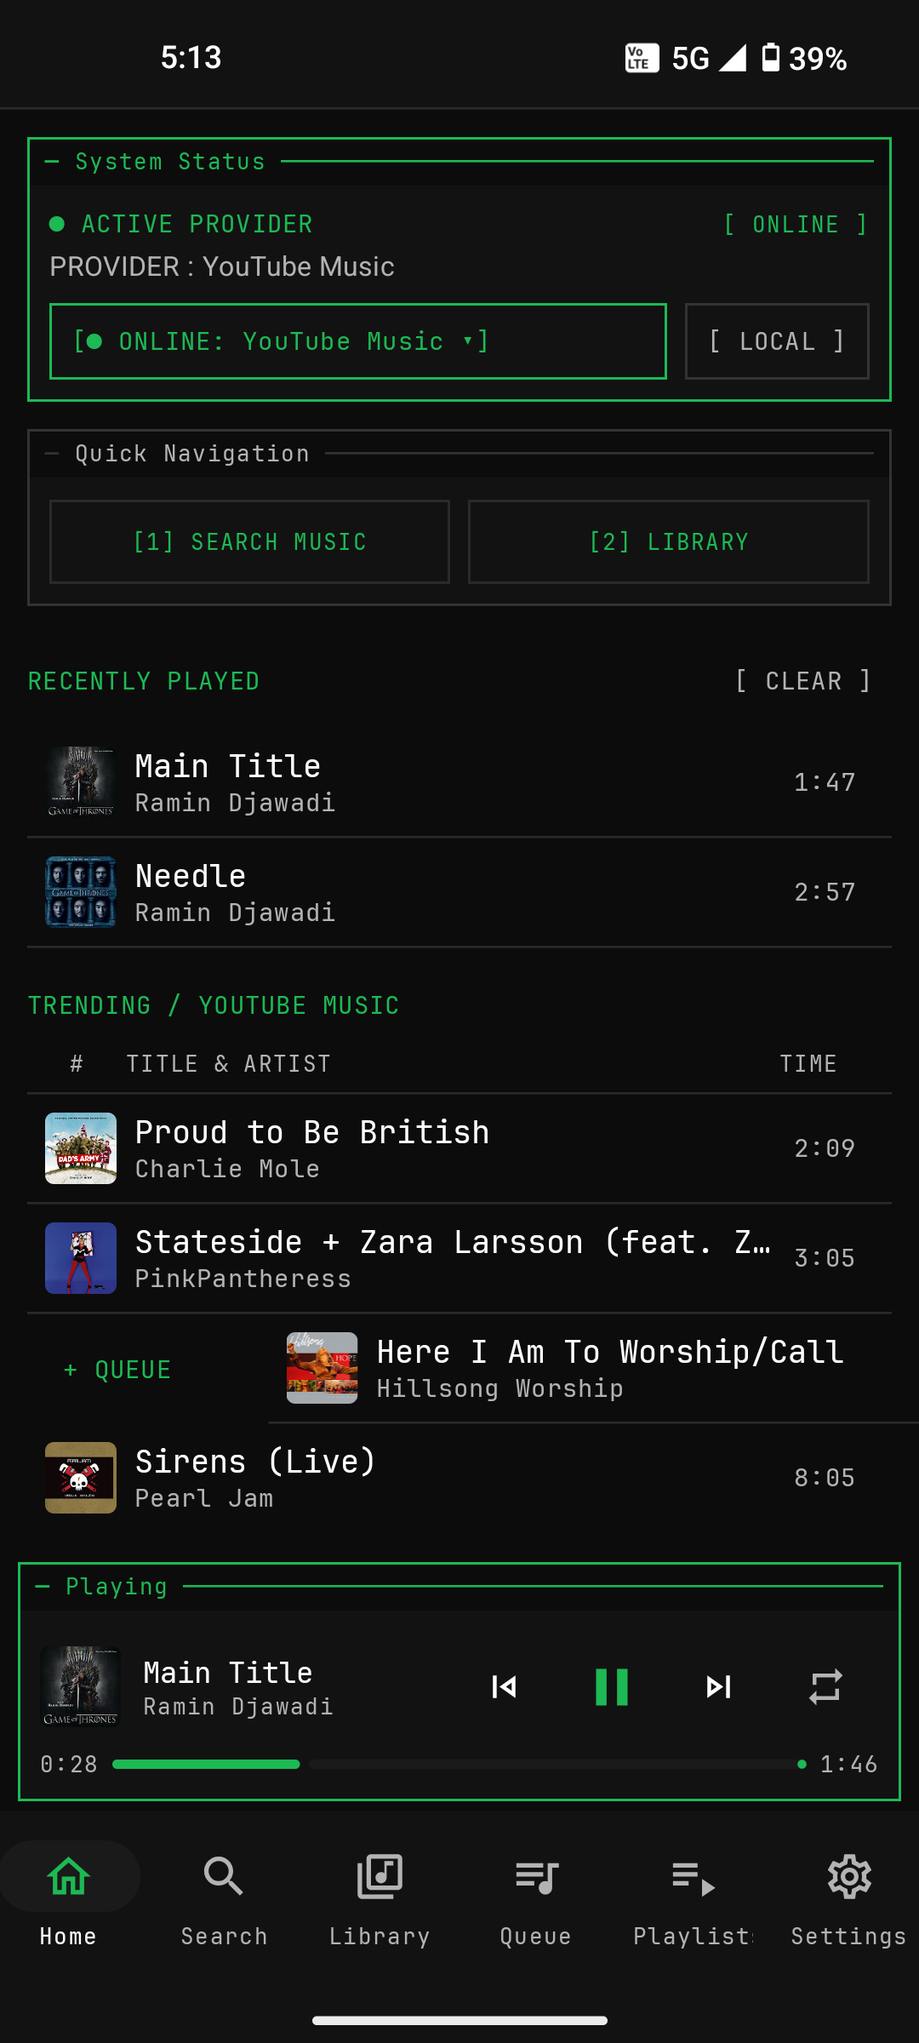
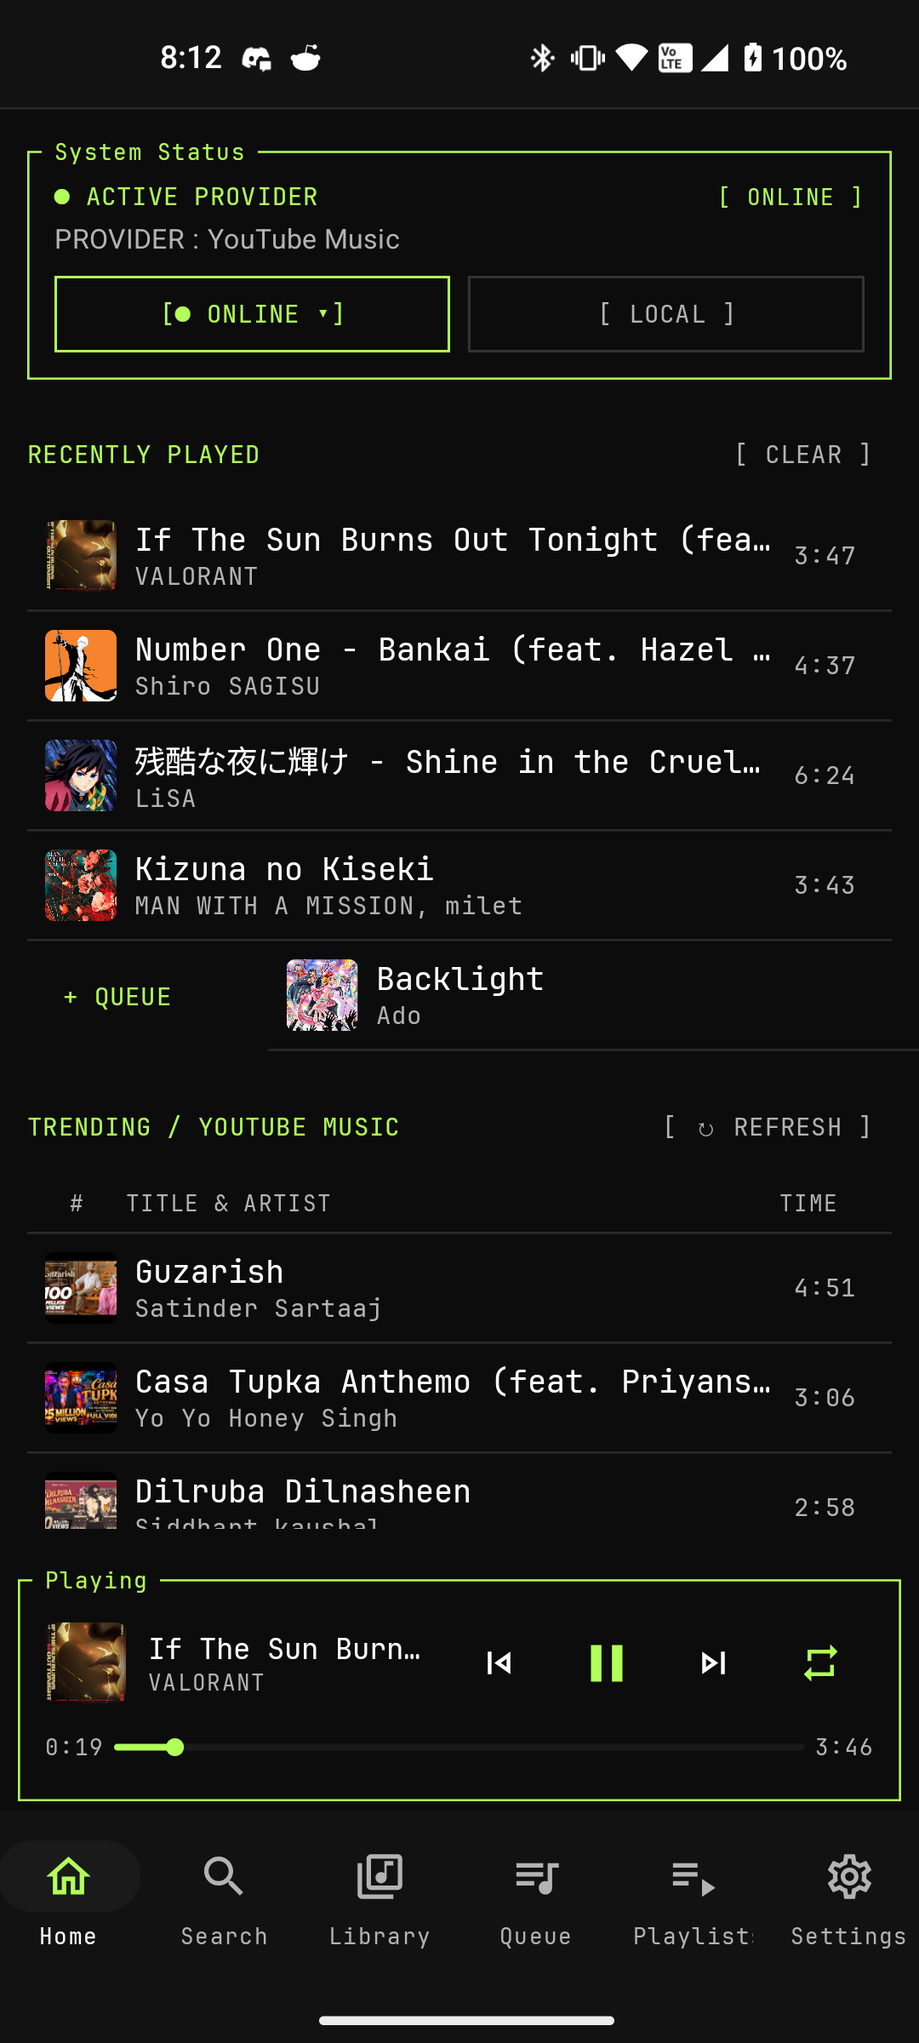
docs: v2.4.0 release notes, README, user guide and new screenshots

diff --git a/README.md b/README.md
@@ -7,7 +7,7 @@
 **A free, open-source Android music player with a terminal-inspired interface.**<br>
 Stream online or play your own lossless library — no ads, no accounts, no tracking.
 
-[![Version](https://img.shields.io/badge/version-2.3.0-1DB954)](#)
+[![Version](https://img.shields.io/badge/version-2.4.0-1DB954)](#)
 [![Downloads](https://img.shields.io/endpoint?url=https%3A%2F%2Fraw.githubusercontent.com%2FOmprakash-p06%2Fclibeats%2Fstats%2Fdownloads-badge.json)](#downloads)
 [![Android](https://img.shields.io/badge/Android-8.0%2B-3DDC84?logo=android&logoColor=white)](https://developer.android.com/)
 [![Kotlin](https://img.shields.io/badge/Kotlin-2.x-7F52FF?logo=kotlin&logoColor=white)](https://kotlinlang.org/)
@@ -40,7 +40,17 @@ Stream online or play your own lossless library — no ads, no accounts, no trac
 
 ## Screenshots
 
-New screenshots of the other screens are on the way. The current Now Playing screen is shown at the top.
+**Home & Search** — swipe a song right to queue it or left to favourite it; recent searches when the box is empty.
+
+<img src="docs/screenshots/strip_home_search.png" width="100%" alt="Home swipe gestures and search">
+
+**Library & Playlists** — songs you've played online; playlists with Favorites and Most Played pinned on top.
+
+<img src="docs/screenshots/strip_library_playlists.png" width="66%" alt="Library and playlists">
+
+**Settings** — theme, accent colours (with a custom picker), music folders, caches, backup and updates.
+
+<img src="docs/screenshots/strip_settings.png" width="66%" alt="Settings: theme, accent, storage and updates">
 
 ---
 
@@ -49,11 +59,16 @@ New screenshots of the other screens are on the way. The current Now Playing scr
 ### Playback
 - **Queue playback that just works** — every queued song resolves when it's reached (skip, auto-advance, repeat).
 - **Fast start** — playback begins after ~0.5 s of buffer; next 2 songs are pre-resolved and their covers prefetched.
-- **Repeat** (off → all → one) and **shuffle**, with a tiny `ONE` / `ALL` / `OFF` label above the button.
+- **Repeat** (off → all → one), with a tiny `ONE` / `ALL` / `OFF` label above the button.
+- **Shuffle reorders the queue itself:** the playing song moves to the top and the rest is mixed, so the Queue screen,
+  next and previous all follow what you see; turning it off restores the original order. A list started while shuffle
+  is on plays shuffled.
 - **Sleep timer** — 15 / 30 / 45 / 60 min or end of track (also with repeat-one).
 - **Auto-queue related songs** (optional, off by default) — tapping a song queues the rest of that list after it.
 - **Previous** restarts the song when it's more than 3 s in; press again for the song that played before — local or
-  online, from any queue — in the app, notification, lock screen and headphones.
+  online, from any queue.
+- **Next** after going back returns to the songs you went back from, in order, at any point in a song; otherwise it
+  follows the queue. Previous and next work the same in the app, notification, lock screen and headphones.
 - **Clear upcoming** keeps the song that's playing.
 - Expired YouTube links are refreshed automatically; one silent retry on stream errors.
 - **A song that can't be played is skipped** with a short notice above the player bar, so the queue never stalls.
@@ -62,7 +77,8 @@ New screenshots of the other screens are on the way. The current Now Playing scr
 - **Online:** YouTube Music, Internet Archive, Jamendo, Audius — pick from the `ONLINE ▾` drop-down.
 - **Local:** your own files — **FLAC (16/24-bit), WAV, MP3, M4A (AAC / ALAC), AAC, OGG Vorbis, Opus** (each checked
   with a real sample file in the tests; ALAC also needs the phone's decoder). AIFF isn't supported.
-- **Regional results** — YouTube Music uses your device's country and language; trending shows your country's top songs.
+- **Trending by country** — Home shows YouTube Music's own chart for the country your SIM / mobile network is in
+  (e.g. *Daily Top Music Videos – India*). It loads once per app open; `[ ↻ REFRESH ]` reloads it.
 - **Data saver** — turn off *High quality streaming* (Settings → Audio Quality) to stream the lowest-bitrate audio.
 
 ### Local library
@@ -73,12 +89,15 @@ New screenshots of the other screens are on the way. The current Now Playing scr
 
 ### Library, playlists & favourites
 - **Library:** `[ ONLINE ]` shows only songs you've played (with its own `[ CLEAR ]`); `[ OFFLINE ]` shows your device music and its track count. Tracks / Artists / Albums.
-- **Playlists grid:** ♥ Favorites, Most Played (each with ✕ per song and a confirmed `[ CLEAR ALL ]`), your playlists (most recent first), a **+** tile, then local playlists.
+- **Playlists:** ♥ Favorites and Most Played pinned on top (each with ✕ per song and a confirmed `[ CLEAR ALL ]`),
+  then your playlists (`[ + NEW ]`), then local playlists in their own section. Four views — small grid, large grid,
+  list and details — remembered between launches.
 - **Custom covers:** tap a playlist's cover to pick an image from your phone or paste an image URL; reset any time.
 - **Favourites:** heart in Now Playing, or swipe left on any song.
 - **Recently Played** on Home (last 5), with its own `[ CLEAR ]` that doesn't touch the Library.
-- **Recent searches:** with the search box empty, Search lists the songs you played from earlier searches.
-- **Reorder** ♥ Favorites and your own playlists by dragging a song's ≡ handle.
+- **Recent searches:** with the search box empty, Search lists the songs you played, queued, favourited or added to
+  a playlist from earlier searches.
+- **Reorder** the queue, ♥ Favorites and your own playlists: drag a song's ≡ handle, or hold its cover and drag.
 - **Playlist export / import** (`clibeats.json`, any location via the system picker) — includes Favorites.
 - **Library backup:** saved automatically once a day (playlists, Favorites, saved albums and artists, settings), also to
   `Download/CLIBeats` on Android 10+ so it survives an uninstall. Setup offers to restore it; **SHARE BACKUP** in
@@ -93,6 +112,8 @@ New screenshots of the other screens are on the way. The current Now Playing scr
 - **Waveform seek:** drag across the bars behind the controls to scrub. Playback keeps going, its position stays marked,
   and dragging back near it snaps onto it (letting go there doesn't seek).
 - The quality line stays readable on any cover: a lighter shade of the album colour, or light amber (never red).
+- **Audio output:** shows where the music is playing — phone speaker, wired headphones or your Bluetooth device by
+  name — and follows changes as they happen. Tap it to open Android's output switcher.
 - Repeat · previous · play/pause · next · shuffle · sleep timer · queue (`[ QUEUE (n) ]`) · add to playlist · ♥.
 
 ### System integration
@@ -101,7 +122,8 @@ New screenshots of the other screens are on the way. The current Now Playing scr
 - Tapping the notification opens the app; the session survives swiping the app away.
 - **Resume card** in Quick Settings after the app is closed (Android 11+): same queue, same song, same position.
 - **In-app updates:** a pop-up when a new release is out (DOWNLOAD / LATER), checksum-verified download to
-  Downloads, then INSTALL. Settings → Updates: auto-check daily / weekly / off and CHECK NOW.
+  Downloads with a progress bar under the top bar (`[VIEW]` / `[×]`), then INSTALL. Settings → Updates: auto-check
+  daily / weekly / off and CHECK NOW.
 
 ### Storage & performance
 - **Two caches, each with its own limit and `[ CLEAR ]`:** artwork (64 MB–512 MB) and songs (256 MB–2 GB);
@@ -111,7 +133,9 @@ New screenshots of the other screens are on the way. The current Now Playing scr
 
 ### Interface
 - Terminal-style UI (JetBrains Mono, bracketed controls, bordered blocks).
-- **Themes:** Dark · AMOLED · **Light**, with six accent colours; dialogs and menus follow the theme.
+- **Themes:** Dark · AMOLED · **Light**, with nine accent colours plus a **custom colour picker** (hue, saturation,
+  brightness or a hex code); dialogs and menus follow the theme.
+- **Mini player seek:** touch or drag the bar; a bubble shows the exact time, and it lands on that second.
 - **First-run setup** (new installs): theme → music folder → default source (Online / Local).
 - **App icon:** round logo (terminal prompt and spectrum bars) that fits round, squircle and square icon shapes, with a themed (monochrome) variant on Android 13+.
 
@@ -131,10 +155,12 @@ New screenshots of the other screens are on the way. The current Now Playing scr
 | Bottom bar · **Library** | Tap again (on Library) | Switch Online ↔ Offline |
 | Bottom bar · **Playlists** | Tap again (inside a playlist) | Back to the playlist grid |
 | Mini player | Tap song / artwork | Open Now Playing |
+| Mini player | Touch / drag the seek bar | Seek, with the exact time shown while held |
 | Now Playing | **Drag down** on the artwork | Close the player |
-| Queue | **Hold** an upcoming song (anywhere) and move it, or drag its ≡ handle | Reorder the queue |
-| ♥ Favorites / your playlists | Drag a song's ≡ handle | Reorder |
+| Queue · ♥ Favorites · your playlists | Drag a song's ≡ handle, or **hold its cover** and drag | Reorder |
 | Previous button | Tap (more than 3 s in) · tap again | Restart the song · play the one before |
+| Next button | Tap after going back | Return to the song you went back from |
+| Now Playing | Tap the audio output (`[ ᛒ EARBUDS ]`) | Open Android's output switcher |
 | Now Playing | **Drag** across the waveform | Scrub; back near the current time snaps to it |
 | Repeat button | Tap repeatedly | Off → All → One |
 | Playlist tile | Long-press | Delete playlist (app playlists only) |
@@ -151,10 +177,10 @@ New screenshots of the other screens are on the way. The current Now Playing scr
 - **Home** — source switch, recently played, trending, mini player.
 - **Search** — search the active source; play next / add to playlist / add to queue on each result.
 - **Library** — Online (played) / Offline (device) · Tracks / Artists / Albums.
-- **Queue** — the playing song, then Up Next to reorder, remove, shuffle or clear; tap to jump. Also opens from the
-  mini player's ≡ and `[ QUEUE ]` in Now Playing.
-- **Playlists** — Favorites, Most Played, app playlists, local M3U playlists; drag ≡ to reorder Favorites and your
-  playlists.
+- **Queue** — the playing song, then Up Next to reorder, remove, shuffle or clear; tap to jump. Also opens from
+  `[ QUEUE ]` in Now Playing.
+- **Playlists** — Favorites and Most Played pinned, your playlists, local M3U playlists; grid / list / details views;
+  drag ≡ (or hold a cover) to reorder Favorites and your playlists.
 - **Settings** — theme & accent, local music folders, playback, provider, storage, playlist exchange & backup, about.
 
 ---
@@ -209,15 +235,15 @@ Screenshot tests: `.\gradlew.bat verifyPaparazziDebug` (needs `ANDROID_HOME` set
 
 Download the latest APK from [Releases](https://github.com/Omprakash-p06/clibeats/releases): each release has
 `CLIBeats-vX.Y.Z.apk` and a `SHA256SUMS.txt` to verify it (`sha256sum -c SHA256SUMS.txt`, or
-`Get-FileHash CLIBeats-v2.3.0.apk` on Windows). From v2.1.0 the app updates itself (Settings → Updates).
+`Get-FileHash CLIBeats-v2.4.0.apk` on Windows). From v2.1.0 the app updates itself (Settings → Updates).
 Every release is signed with the CLIBeats key, certificate SHA-256
[1 lines of base64/hex data omitted]
 
-Pushing a tag like `v2.3.0` runs `.github/workflows/release.yml`: tests, a signed release APK and a GitHub
+Pushing a tag like `v2.4.0` runs `.github/workflows/release.yml`: tests, a signed release APK and a GitHub
 Release with [release notes](docs/RELEASE_NOTES.md). Signing uses the repository secrets `KEYSTORE_BASE64`,
 `KEYSTORE_PASSWORD`, `KEY_ALIAS` and `KEY_PASSWORD`; the workflow stops if they're missing, so a
 debug-signed APK (which couldn't update existing installs) is never published. A release published by hand is
-left untouched. The version comes from the tag (`2.3.0` → versionCode `20300`); local builds default to 2.3.0.
+left untouched. The version comes from the tag (`2.4.0` → versionCode `20400`); local builds default to 2.4.0.
 
 ---
 

diff --git a/docs/RELEASE_NOTES.md b/docs/RELEASE_NOTES.md
@@ -1,38 +1,57 @@
-# CLIBeats v2.3.0 — Release Notes
+# CLIBeats v2.4.0 — Release Notes
 
-**Build target:** Android 8.0+ (API 26+) · **Download:** `CLIBeats-v2.3.0.apk` (verify with `SHA256SUMS.txt`)
+**Build target:** Android 8.0+ (API 26+) · **Download:** `CLIBeats-v2.4.0.apk` (verify with `SHA256SUMS.txt`)
+
+## Playlists
+
+- **New views:** small grid, large grid, list and details. Switch with the buttons at the top; your choice is
+  remembered.
+- **Clear sections:** ♥ Favorites and Most Played are pinned at the top, then your playlists (with `[ + NEW ]`),
+  then local M3U/PLS playlists in their own section.
+- **Reordering rebuilt** for the queue, ♥ Favorites and your own playlists: drag the ≡ handle, or hold a song's cover
+  and drag. It scrolls at the edges, the other songs move out of the way smoothly, and the new order is saved when you
+  let go.
+
+## Playback
+
+- **Next goes back where you came from:** after pressing Previous, Next returns to the song you went back from (and
+  the ones before it, in order), at any point in the song. The same in the app, notification, lock screen and
+  headphones.
+- **Shuffle really shuffles the queue:** the playing song moves to the top and the rest is mixed, so the Queue
+  screen, Next and Previous all match what you see. Turning it off restores the original order.
+- **Precise seeking in the mini player:** touch or drag the bar; a bubble shows the exact time and it lands on that
+  second.
 
 ## Now Playing
 
-- **Previous** works like other players: more than 3 seconds into a song it restarts it, and pressing again
-  plays the song before. Also from the notification, lock screen and headphones.
-- The quality line (`[LOCAL] FLAC · …`) is always readable: on covers whose colour matches the background it
-  switches to a lighter shade or a light amber, never red.
-- `[ QUEUE (n) ]` opens the queue right from Now Playing.
+- **Audio output:** see where the music is playing — phone speaker, wired headphones or your Bluetooth device by name
+  — updated as you connect, disconnect or switch. Tap it to open Android's output switcher.
+- The classic waveform is back (the live loudness waveform from v2.3.0 has been removed).
 
-## Navigation
+## Home & Search
 
-- Boxes have their title in the border, with no extra header line; Home no longer has the Quick Navigation box.
-- The queue also opens from the mini player (≡) and `[ QUEUE (n) ]` in Now Playing; it shows the playing song,
-  then Up Next with shuffle and clear.
+- **Trending for your country:** Home shows YouTube Music's own chart for the country your SIM / mobile network is in,
+  e.g. *Daily Top Music Videos – India*.
+- Trending loads once each time you open the app and no longer reloads when you switch tabs; `[ ↻ REFRESH ]` next to
+  the title reloads it. If the connection isn't ready when the app opens, it waits and retries instead of showing
+  an error.
+- **Recent searches** now include songs you queued, favourited or added to a playlist from search, not only ones you
+  played.
+- The bottom bar has its six tabs again, and the mini player no longer has a queue button.
 
-## Library & playlists
+## Settings
 
-- **Reorder ♥ Favorites** and your own playlists by dragging the ≡ handle.
-- **Recent searches** only list songs you played from search, not ones you queued.
-- Local folders: **FLAC, MP3, WAV, M4A (AAC/ALAC), OGG, Opus and AAC** are checked with real sample files;
-  AIFF files (which can't be played) are no longer listed.
+- **New accent colours:** Green, Lime, Amber, Orange, Magenta, Lavender, Cyan, Teal and White, plus a **custom colour
+  picker** (hue, saturation and brightness sliders, or type a hex code). If you used a colour that was removed, you
+  keep it as your custom colour.
+- Every box spans the full width with an accent outline.
+- **Update downloads** show a progress bar under the top bar (`[VIEW]` / `[×]`), so you can keep using the app while
+  it downloads. Update checks stay once a day (or weekly / off).
 
-## Backup & safety
+## Under the hood
 
-- **Automatic daily backup** of playlists, Favorites, saved albums/artists and settings, also saved to
-  `Download/CLIBeats` (Android 10+) so it survives an uninstall. Setup offers to restore it; Settings →
-  **SHARE BACKUP** sends a copy anywhere. Android's own backup now brings the library back on a new phone.
-- A failed or unreadable music folder no longer deletes songs from the library.
-- Updates are only installed when they are signed with the same key as the installed app.
-- Faster start (no blocking reads at launch), steadier playback queue, and the sleep timer keeps running when
-  the app is closed.
+- Uses less battery: Wi-Fi is only kept awake while streaming, not while playing your own files.
+- YouTube streams play the best audio available without an account (Opus, about 160 kbps).
+- README: new screenshots, a star history chart and a daily-updated downloads chart.
 
-## Updates
-
-Installed v2.1.0 or later? This update appears in the app (Settings → Updates).
+Thanks to **Omprakash Panda** for the audio output switcher and update progress bar ideas (#8).

diff --git a/docs/USER_GUIDE.md b/docs/USER_GUIDE.md
@@ -14,12 +14,12 @@ Swipe left / right anywhere outside a song row to move between tabs.
 
 | Tab | What it does |
 |---|---|
-| **Home** | Source switch (`ONLINE ▾` / `LOCAL`), Recently Played (last 5, with `[ CLEAR ]`), trending songs. Tap the tab again to switch Online ↔ Local. |
-| **Search** | Search the active source. With the box empty it lists songs you played from earlier searches (`[ CLEAR ]`). Tap the tab again to switch Online ↔ Local; double-tap it to jump into the search box. |
+| **Home** | Source switch (`ONLINE ▾` / `LOCAL`), Recently Played (last 5, with `[ CLEAR ]`), and trending songs for your country (from your SIM / mobile network). Trending loads once each time you open the app; `[ ↻ REFRESH ]` reloads it. Tap the tab again to switch Online ↔ Local. |
+| **Search** | Search the active source. With the box empty it lists songs you played, queued, favourited or added to a playlist from earlier searches (`[ CLEAR ]`). Tap the tab again to switch Online ↔ Local; double-tap it to jump into the search box. |
 | **Library** | `[ ONLINE ]` = songs you've played, `[ OFFLINE ]` = music on your device (with the track count). Tap the tab again to switch. Tracks / Artists / Albums. |
-| **Queue** | The playing song, then Up Next: hold a song (or drag its ≡ handle) and move it to reorder; remove, shuffle or clear upcoming songs; tap one to jump to it. Also opens from the mini player's ≡ and `[ QUEUE ]` in Now Playing. |
-| **Playlists** | ♥ Favorites, Most Played (✕ removes a song, `[ CLEAR ALL ]` asks first), your playlists, a **+** tile and local M3U playlists. Drag a song's ≡ handle to reorder ♥ Favorites or your own playlists. Tap the tab again to go back to the grid. |
-| **Settings** | Theme & accent, music folders, playback, provider, storage, playlist exchange, about. |
+| **Queue** | The playing song, then Up Next: drag a song's ≡ handle, or hold its cover and drag, to reorder; remove, shuffle or clear upcoming songs; tap one to jump to it. Shuffle mixes the list you see (the playing song moves to the top); turning it off puts the original order back. Also opens from `[ QUEUE ]` in Now Playing. |
+| **Playlists** | ♥ Favorites and Most Played pinned at the top (✕ removes a song, `[ CLEAR ALL ]` asks first), then your playlists (`[ + NEW ]`), then local M3U playlists. The buttons at the top switch between small grid, large grid, list and details. Inside Favorites or your own playlists, drag a song's ≡ handle (or hold its cover) to reorder. Tap the tab again to go back to the overview. |
+| **Settings** | Theme & accent (nine colours plus **Custom**: hue, saturation and brightness sliders or a hex code), music folders, playback, provider, storage, playlist exchange, updates, about. |
 
 ## Song gestures
 
@@ -30,14 +30,20 @@ Swipe left / right anywhere outside a song row to move between tabs.
 
 ## Player
 
-- **Mini player** — tap the song to open Now Playing.
+- **Mini player** — tap the song to open Now Playing. Touch or drag the seek bar: a bubble shows the exact time and
+  it lands on that second when you let go.
 - **Now Playing** — a frosted-glass background made from the album art, with matching control colours. Drag across
   the waveform behind the controls to scrub: playback keeps going, and dragging back near the current time
   snaps onto it. Repeat (off → all → one), previous, play/pause,
   next, shuffle, sleep timer,
   queue, add to playlist, ♥. Drag the artwork down to close.
+- **Audio output** — under the quality line, Now Playing shows where the music is playing (phone speaker, wired
+  headphones or your Bluetooth device by name). Tap it to switch output in Android's own picker.
 - **Previous** — more than 3 seconds into a song it restarts it; press again to play the song that played
-  before, local or online, even from an earlier queue (also from the notification, lock screen and headphones).
+  before, local or online, even from an earlier queue.
+- **Next** — after going back, next returns to the song you went back from (and the ones before it, in order);
+  otherwise it plays the next song in the queue. Previous and next work the same from the notification, lock
+  screen and headphones.
 - **Sleep timer** — 15 / 30 / 45 / 60 minutes or end of the current song (works with repeat-one too).
 - If a song can't be played, CLIBeats skips to the next one and shows a short notice above the player.
 
@@ -62,7 +68,8 @@ the media card in Quick Settings resumes the last song from where you left off.
 ## Updates
 
 When a new version is released, a pop-up offers **DOWNLOAD** or **LATER** (hides it for a day). The APK is
-saved to your Downloads folder and checked against the release's checksum; then tap **INSTALL** and confirm
+saved to your Downloads folder (a progress bar under the top bar shows how far along it is; `[×]` hides it) and
+checked against the release's checksum; then tap **INSTALL** and confirm
 Android's update screen. The first time, Android asks you to allow installs from CLIBeats.
 
 Settings → Updates sets how often the app checks (**Daily**, **Weekly** or **Off**) and has **CHECK NOW** to
